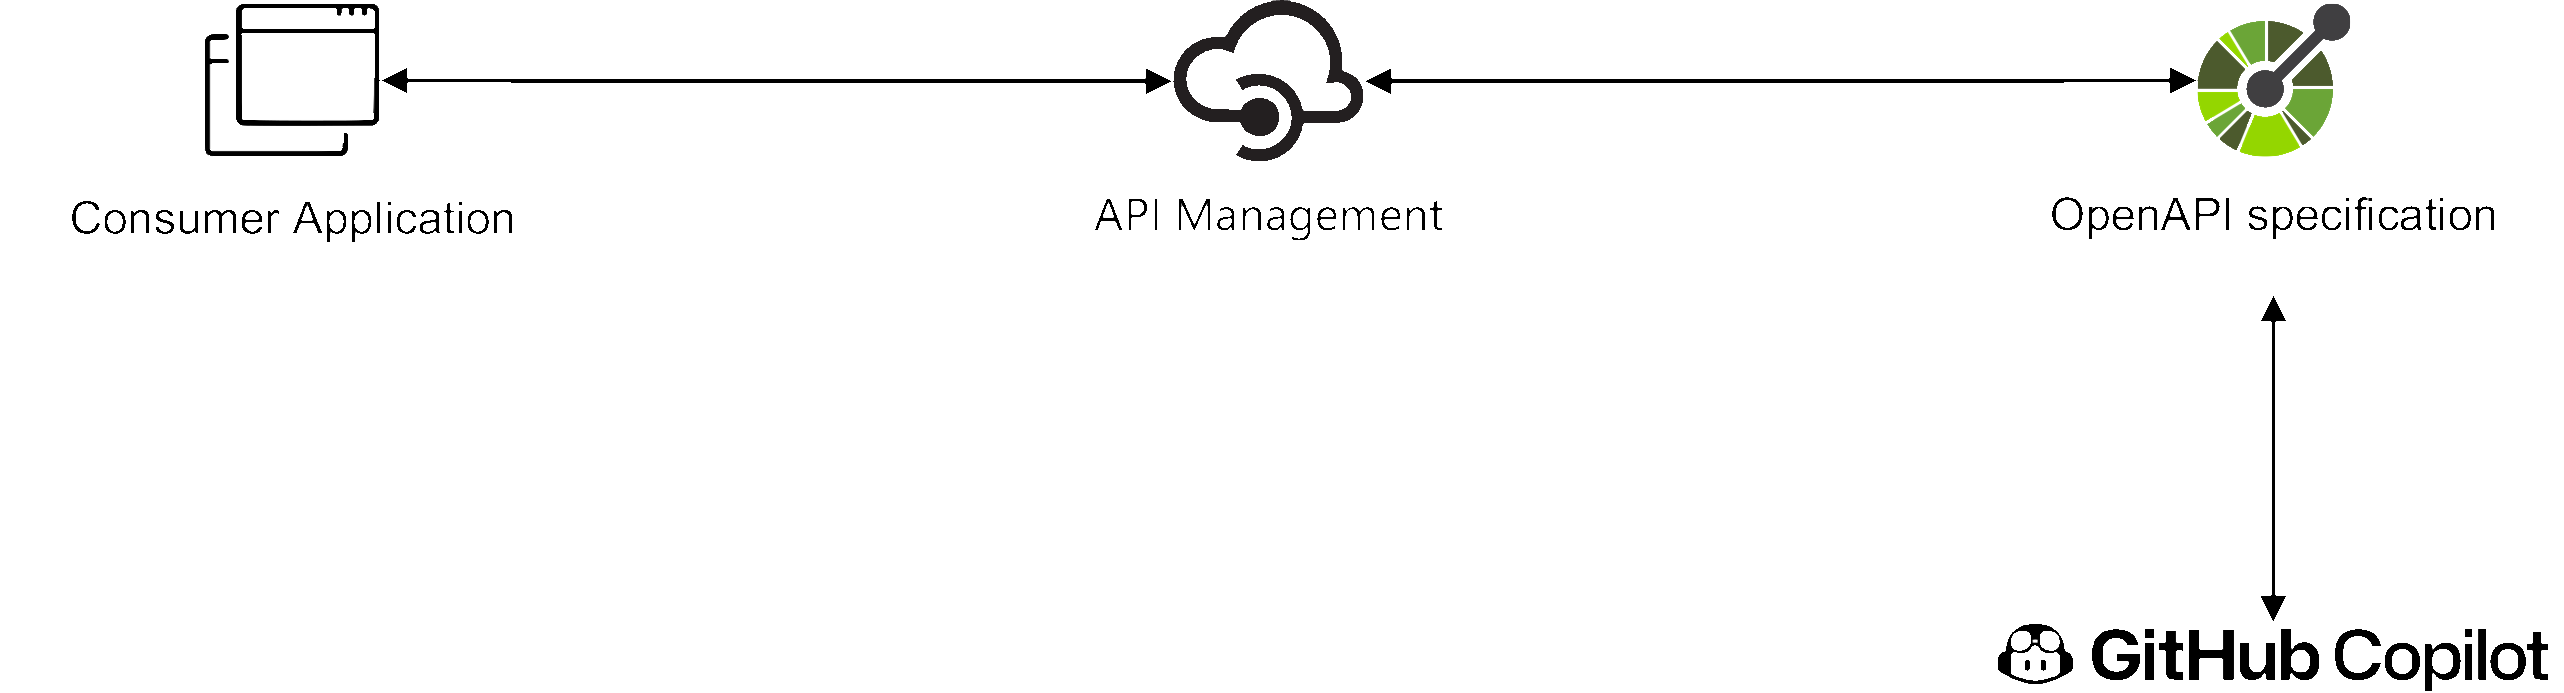
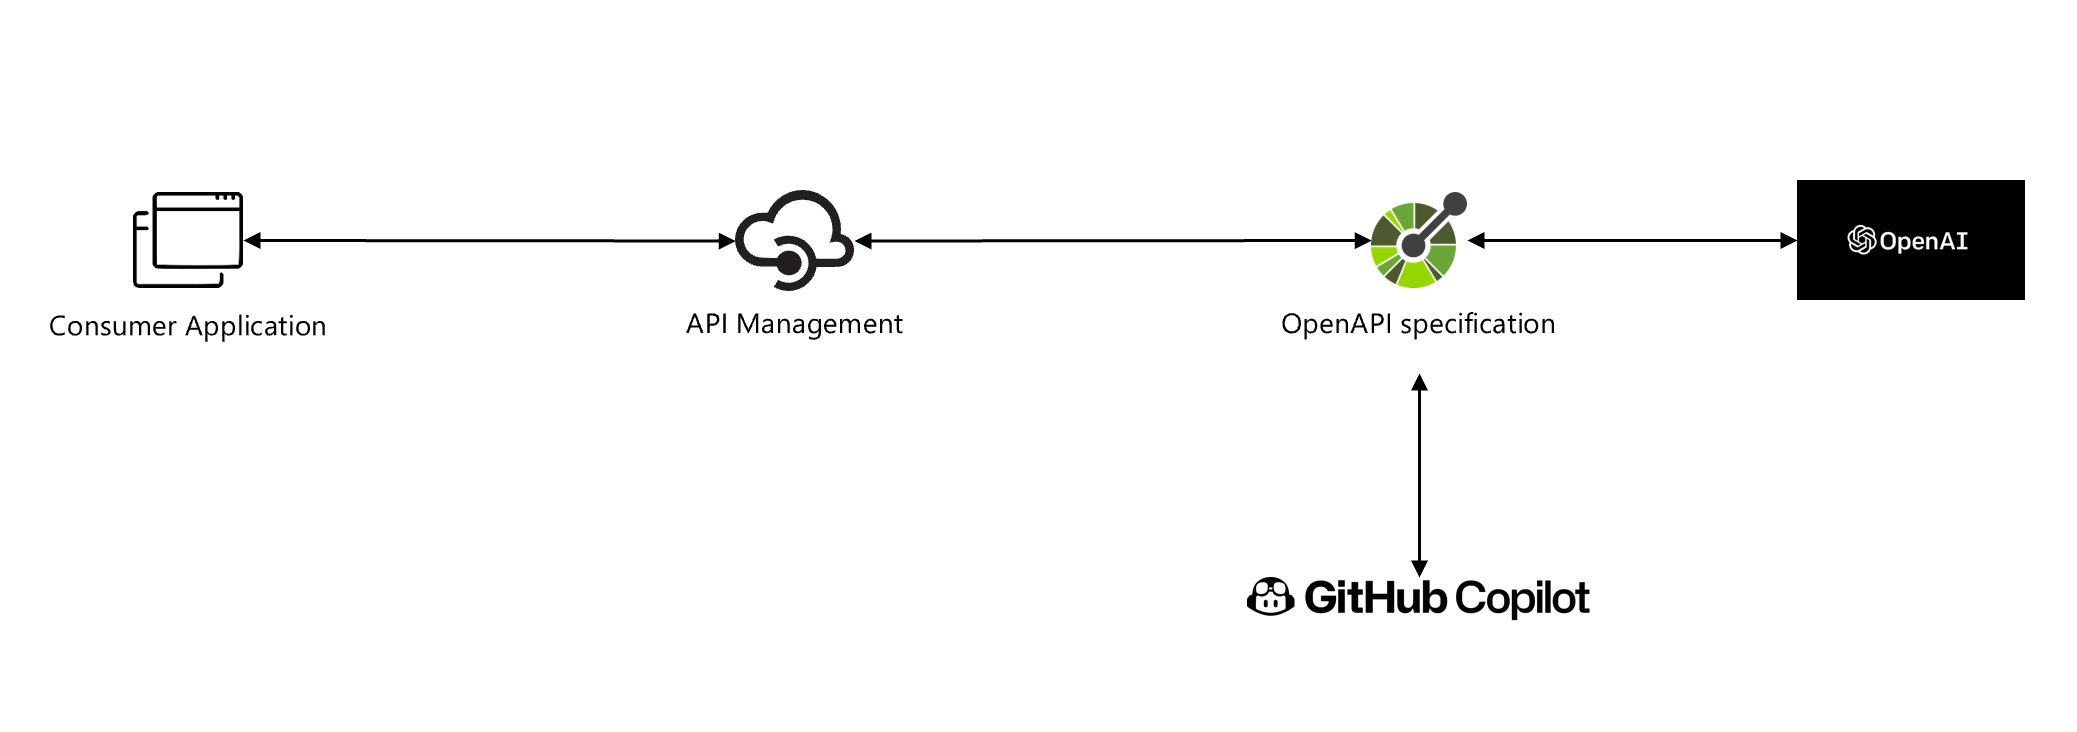
Update with ChatGPT comparison

diff --git a/README.md b/README.md
@@ -24,6 +24,7 @@ Hope you find this useful!
 * Install [Visual Studio Code](https://code.visualstudio.com/download)
 * Install [GitHub Copilot](https://copilot.github.com/) Extension for Visual Studio Code.
 * Install [REST Client](https://marketplace.visualstudio.com/items?itemName=humao.rest-client) Extension for Visual Studio Code.
+* Install [OpenAPI Editor](https://marketplace.visualstudio.com/items?itemName=42Crunch.vscode-openapi) Extension for Visual Studio Code.
 * Install Chocolatey (package manager)
 
 ```ps1
@@ -78,7 +79,21 @@ One thing that was missing in the initial generated code were the parameters, so
 
 ## Create an OpenAPI Specification with ChatGPT
 
-As a comparison I wanted to see how other generators would perform. I've used [ChatGPT](https://openai.com/blog/chatgpt/) to compare.
+As a comparison I wanted to see how other generators would perform. I've used [ChatGPT](https://openai.com/blog/chatgpt/) to compare. It's free, just register and you can start using it.
+
+* Create an OpenAPI Specification with ChatGPT
+
+![ais-apim-copilot](docs/images/chatgpt_openapi_generation.png)
+
+By default it generated a OpenAPI specification in YAML format, without examples. I've asked ChatGPT to generate the examples in my next ask.
+
+![ais-apim-copilot](docs/images/chatgpt_openapi_generation_2.png)
+
+Pretty impressive, but I think GitHub Copilot is still the winner. Because you can use it within Visual Studio Code, and it's easier to extend the OpenAPI Specification. But it's still a good alternative. I've also added the ChatGPT generated OpenAPI Specification to the repository.
+
+I've saved the output [here](deploy/release/openapi/openapi_chatgpt.yaml).
+
+Two things that I've noticed is that ChatGPT does generate the parameters, where Copilot doesn't. Second, I've noticed that when the output get very big, ChatGPT just cuts off the end.
 
 ## Deploy Manually
 
